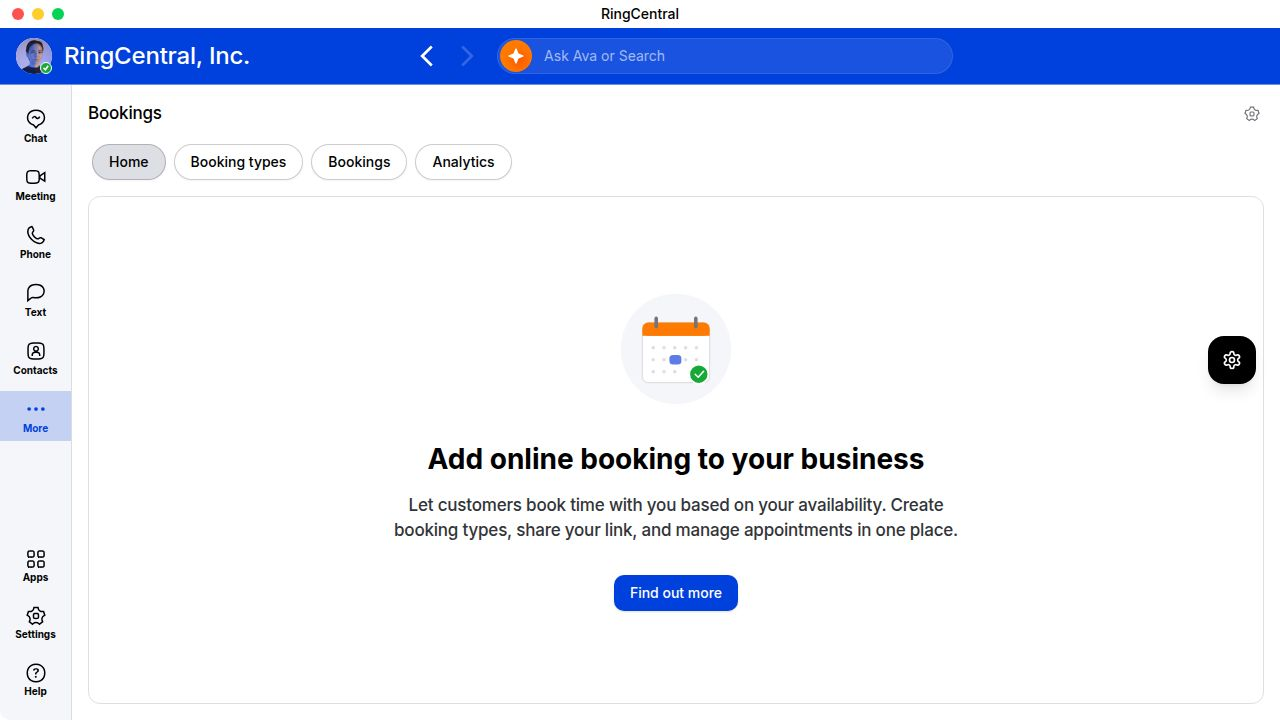
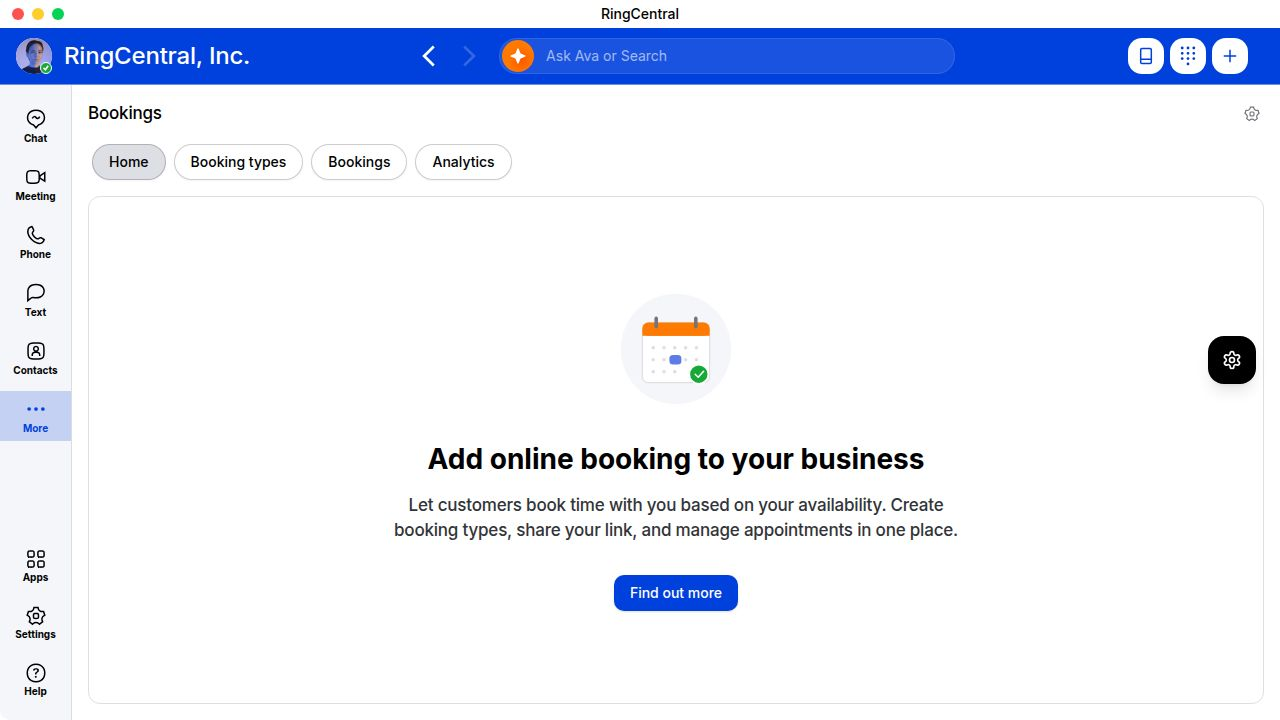
Add a way for users to share booking links via a dialog
Create a new dialog component to reuse the existing booking form for sharing links, triggered from the app bar menu.

Replit-Commit-Author: Agent
Replit-Commit-Session-Id: 762d7d6d-a6ca-4572-9f02-81fa6c03cdba
Replit-Commit-Checkpoint-Type: full_checkpoint
Replit-Commit-Event-Id: 06cf54eb-2522-4b64-8948-46e59efdc6a9
Replit-Commit-Screenshot-Url: https://storage.googleapis.com/screenshot-production-us-central1/3fb2884d-b3d4-48fd-9d6a-d70f0ff02023/762d7d6d-a6ca-4572-9f02-81fa6c03cdba/mc2ropL
Replit-Helium-Checkpoint-Created: true

Changed region(s): [[0.875, 0.0306, 1.0, 0.1222], [0.375, 0.0611, 0.5312, 0.0917], [0.3125, 0.0611, 0.3438, 0.0917]]

diff --git a/artifacts/smart-scheduler/client/src/components/AppBarAddMenu.tsx b/artifacts/smart-scheduler/client/src/components/AppBarAddMenu.tsx
@@ -1,11 +1,12 @@
 import { useEffect, useState } from "react";
-import { useLocation } from "wouter";
 import * as DropdownMenuPrimitive from "@radix-ui/react-dropdown-menu";
 import { CaretRightMd, PlusMd } from "@ringcentral/spring-icon";
 import { useSmartSchedulerPurchased } from "@/lib/smartScheduler";
 import { BookingFeatureDialog } from "@/components/BookingFeatureDialog";
+import { ShareBookingDialog } from "@/components/ShareBookingDialog";
 import { UpgradeIndicator } from "@/components/UpgradeIndicator";
-import { useCurrentPhase, useFlowParam, hrefForPhase } from "@/lib/flows";
+import { useFlowParam } from "@/lib/flows";
+import { useToast } from "@/hooks/use-toast";
 
 const itemRowClass =
   "group flex min-h-10 w-full cursor-default select-none items-center px-3 py-2.5 text-left text-black outline-none data-[highlighted]:bg-[#f5f6f9] data-[state=open]:bg-[#f5f6f9]";
@@ -73,10 +74,10 @@ export const AppBarAddMenu = ({
 }: AppBarAddMenuProps): JSX.Element => {
   const [open, setOpen] = useState(false);
   const [bookingIntroOpen, setBookingIntroOpen] = useState(false);
+  const [shareDialogOpen, setShareDialogOpen] = useState(false);
   const [isPurchased] = useSmartSchedulerPurchased();
-  const [, navigate] = useLocation();
-  const phase = useCurrentPhase();
   const flow = useFlowParam();
+  const { toast } = useToast();
 
   useEffect(() => {
     if (flow === "global-add-menu") setOpen(true);
@@ -89,7 +90,7 @@ export const AppBarAddMenu = ({
       setBookingIntroOpen(true);
       return;
     }
-    navigate(hrefForPhase("/", phase));
+    setShareDialogOpen(true);
   };
 
   const noop = (event: Event) => {
@@ -205,6 +206,12 @@ export const AppBarAddMenu = ({
       <BookingFeatureDialog
         open={bookingIntroOpen}
         onOpenChange={setBookingIntroOpen}
+      />
+
+      <ShareBookingDialog
+        open={shareDialogOpen}
+        onOpenChange={setShareDialogOpen}
+        onSent={() => toast({ description: "Booking link sent" })}
       />
     </>
   );

diff --git a/artifacts/smart-scheduler/client/src/components/ShareBookingDialog.tsx b/artifacts/smart-scheduler/client/src/components/ShareBookingDialog.tsx
@@ -1,0 +1,46 @@
+import {
+  Dialog,
+  DialogContent,
+  DialogDescription,
+  DialogTitle,
+} from "@/components/ui/dialog";
+import { VisuallyHidden } from "@radix-ui/react-visually-hidden";
+import { ShareBookingPopoverContent } from "@/components/ShareBookingPopoverContent";
+
+export interface ShareBookingDialogProps {
+  open: boolean;
+  onOpenChange: (open: boolean) => void;
+  onSent?: () => void;
+}
+
+export const ShareBookingDialog = ({
+  open,
+  onOpenChange,
+  onSent,
+}: ShareBookingDialogProps): JSX.Element => {
+  return (
+    <Dialog open={open} onOpenChange={onOpenChange}>
+      <DialogContent
+        data-testid="dialog-share-booking-global"
+        className="w-[440px] max-w-[95vw] gap-0 overflow-hidden rounded-[14px] border-none bg-white p-4 sm:max-w-[440px]"
+      >
+        <VisuallyHidden>
+          <DialogTitle>Share booking link</DialogTitle>
+          <DialogDescription>
+            Choose a booking type and how you want to send the link.
+          </DialogDescription>
+        </VisuallyHidden>
+        <ShareBookingPopoverContent
+          idPrefix="share-booking-global"
+          onCancel={() => onOpenChange(false)}
+          onSend={() => {
+            onOpenChange(false);
+            onSent?.();
+          }}
+        />
+      </DialogContent>
+    </Dialog>
+  );
+};
+
+export default ShareBookingDialog;
